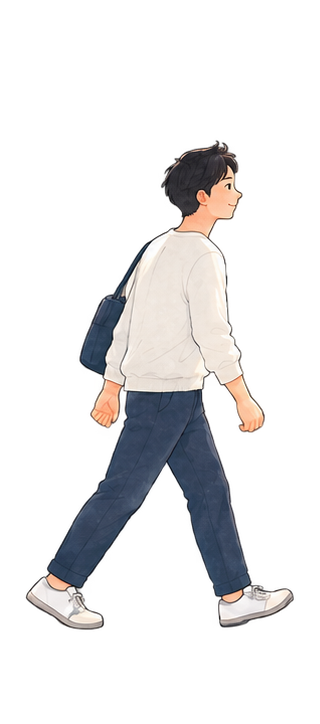
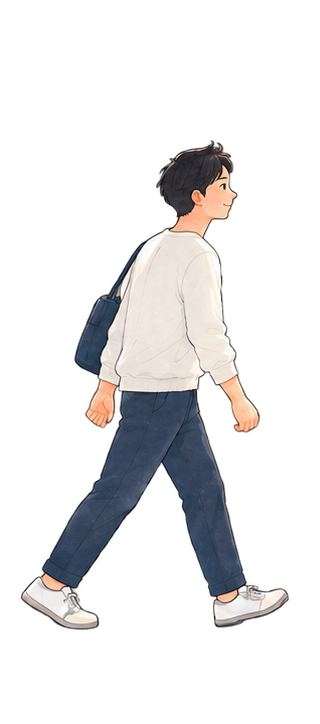
fix: isolate each family stage by alpha bounds

diff --git a/app/story/assets.test.ts b/app/story/assets.test.ts
@@ -1,7 +1,7 @@
 import { existsSync } from 'node:fs';
 import { join } from 'node:path';
 import { describe, expect, it } from 'vitest';
-import { characterAssets, getCharacterAsset } from './assets';
+import { characterAssets, characterCrops, getCharacterAsset } from './assets';
 
 describe('character assets', () => {
   it('uses one isolated file for every life stage', () => {
@@ -16,5 +16,16 @@ describe('character assets', () => {
   it('clamps stage selection to the available files', () => {
     expect(getCharacterAsset(-1)).toBe(characterAssets[0]);
     expect(getCharacterAsset(99)).toBe(characterAssets[5]);
+  });
+
+  it('crops each alpha group without entering an adjacent group', () => {
+    const occupiedGroups = [[21,296],[373,531],[614,811],[914,1256],[1294,1670],[1722,2155]];
+    characterCrops.forEach(({ x, width }, index) => {
+      const [start, end] = occupiedGroups[index];
+      expect(x).toBeLessThanOrEqual(start);
+      expect(x + width).toBeGreaterThan(end);
+      if (index > 0) expect(x).toBeGreaterThan(occupiedGroups[index - 1][1]);
+      if (index < 5) expect(x + width).toBeLessThan(occupiedGroups[index + 1][0]);
+    });
   });
 });

diff --git a/app/story/assets.ts b/app/story/assets.ts
@@ -3,6 +3,15 @@ export const characterAssets = Array.from(
   (_, index) => `/art/character-stage-${index + 1}.png`,
 );
 
+export const characterCrops = [
+  { x: 5, width: 320 },
+  { x: 350, width: 210 },
+  { x: 590, width: 250 },
+  { x: 880, width: 400 },
+  { x: 1275, width: 420 },
+  { x: 1700, width: 472 },
+] as const;
+
 export function getCharacterAsset(stage: number) {
   const safeStage = Math.min(characterAssets.length - 1, Math.max(0, Math.floor(stage)));
   return characterAssets[safeStage];
